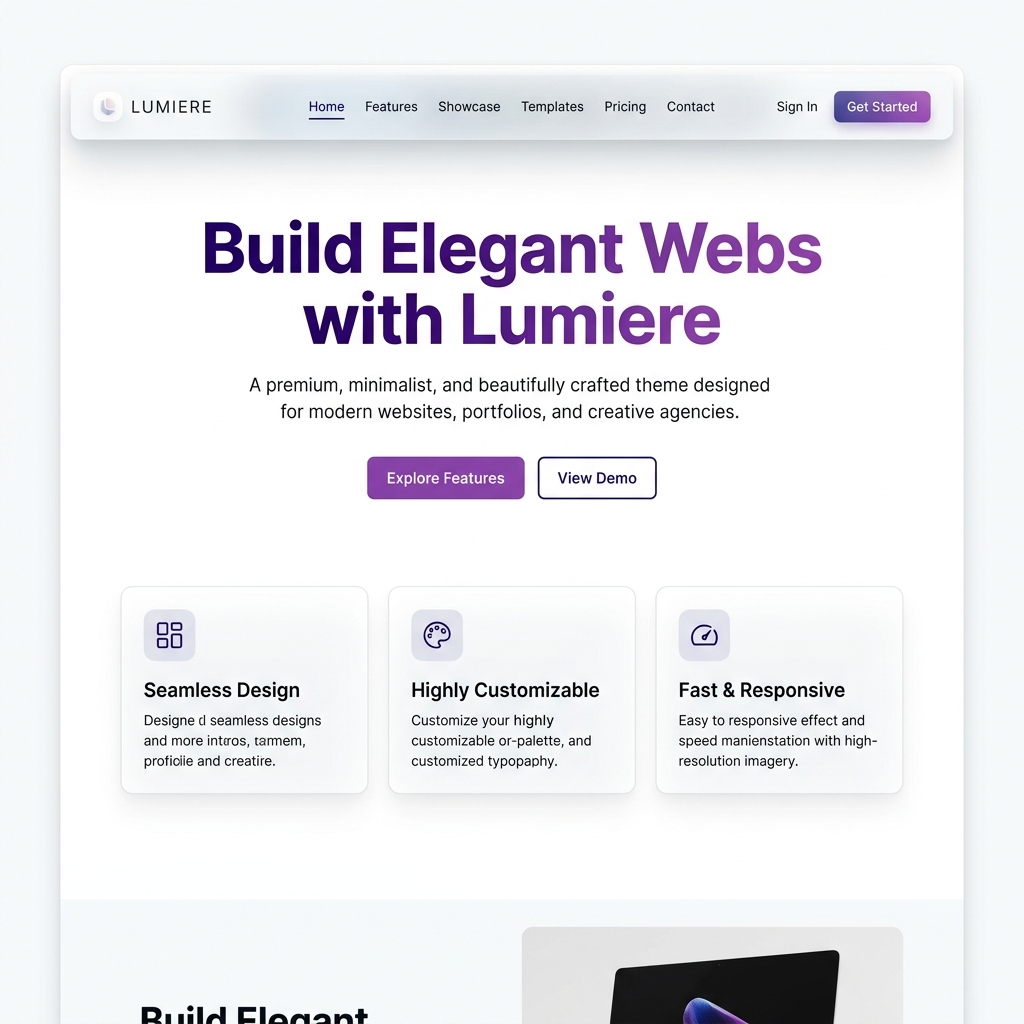
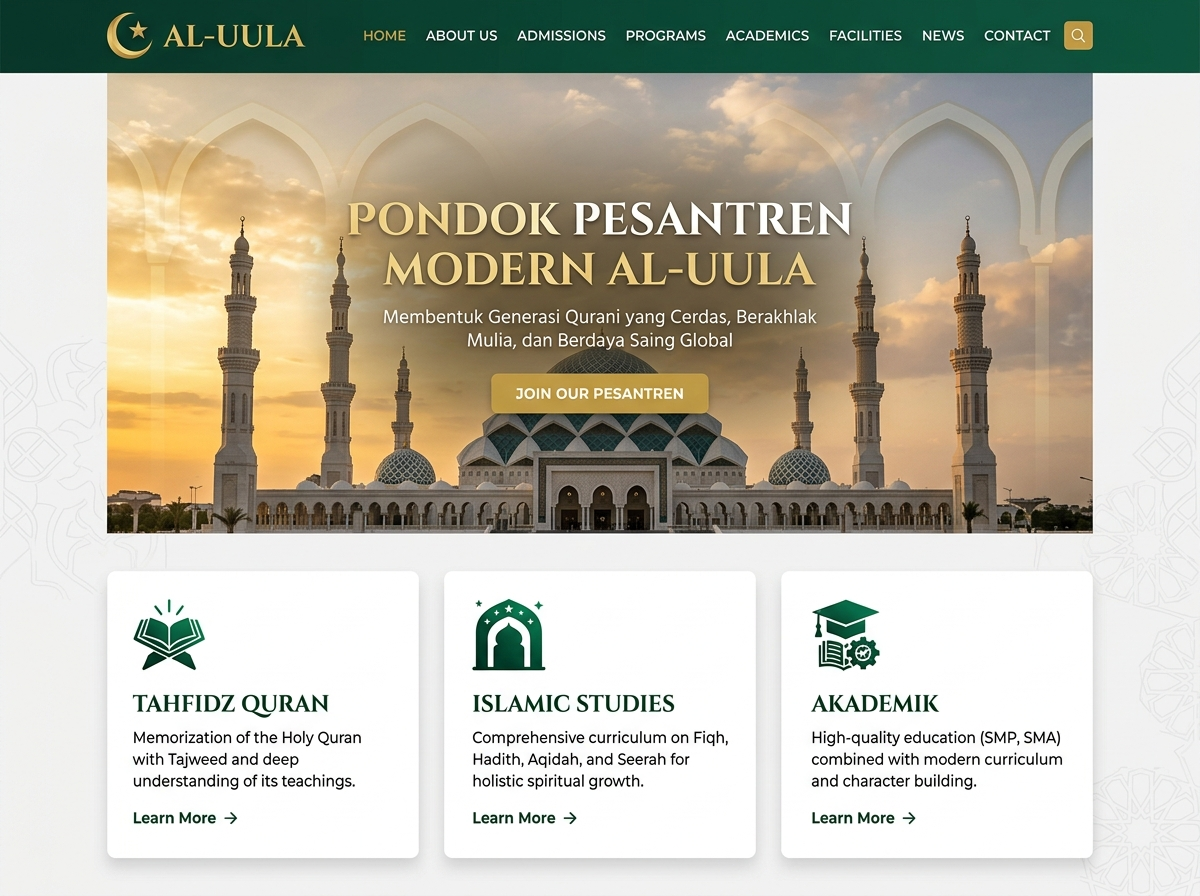
feat(theme): rename theme to Al-Uula and update showcase thumbnail screenshot

diff --git a/resources/themes/lumiere/functions.php b/resources/themes/lumiere/functions.php
@@ -2,8 +2,8 @@
 
 // Mendaftarkan menu navigasi khusus untuk tema ini di sistem
 $app->events->listen('menu.register', function ($menus) {
-    $menus['lumiere_header'] = 'Navigasi Atas (Lumière)';
-    $menus['lumiere_footer'] = 'Tautan Bawah (Lumière)';
+    $menus['lumiere_header'] = 'Navigasi Atas (Al-Uula)';
+    $menus['lumiere_footer'] = 'Tautan Bawah (Al-Uula)';
     return $menus;
 });
 
@@ -32,7 +32,7 @@ try {
 // Menambahkan label pada footer artikel
 $app->events->listen('article.before_render', function ($content) use ($app) {
     $year = date('Y');
-    $content = $content . "<hr style='margin-top: 3rem; border: none; border-top: 1px solid #e2e8f0;'><p style='font-size: 0.85rem; color: #64748b;'><em>&copy; {$year} Dibuat dengan tema Lumière.</em></p>";
+    $content = $content . "<hr style='margin-top: 3rem; border: none; border-top: 1px solid #e2e8f0;'><p style='font-size: 0.85rem; color: #64748b;'><em>&copy; {$year} Dibuat dengan tema Al-Uula.</em></p>";
     return $content;
 });
 
